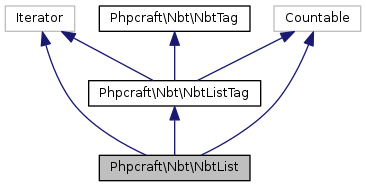
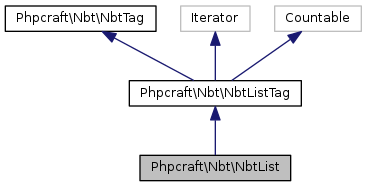
Update docs

diff --git a/docs/hierarchy.html b/docs/hierarchy.html
@@ -147,19 +147,17 @@ This inheritance list is sorted roughly, but not completely, alphabetically:</di
 <tr id="row_17_0_" class="even"><td class="entry"><span style="width:32px;display:inline-block;">&#160;</span><span class="icona"><span class="icon">C</span></span><a class="el" href="classPhpcraft_1_1UUID.html" target="_self">Phpcraft\UUID</a></td><td class="desc"></td></tr>
 <tr id="row_18_"><td class="entry"><span style="width:16px;display:inline-block;">&#160;</span><span class="icona"><span class="icon">C</span></span><a class="el" href="classPhpcraft_1_1Versions.html" target="_self">Phpcraft\Versions</a></td><td class="desc"></td></tr>
 <tr id="row_19_" class="even"><td class="entry"><span style="width:0px;display:inline-block;">&#160;</span><span id="arr_19_" class="arrow" onclick="toggleFolder('19_')">&#9660;</span><span class="icona"><span class="icon">C</span></span><b>Countable</b></td><td class="desc"></td></tr>
-<tr id="row_19_0_"><td class="entry"><span style="width:32px;display:inline-block;">&#160;</span><span class="icona"><span class="icon">C</span></span><a class="el" href="classPhpcraft_1_1Nbt_1_1NbtList.html" target="_self">Phpcraft\Nbt\NbtList</a></td><td class="desc"></td></tr>
-<tr id="row_19_1_" class="even"><td class="entry"><span style="width:32px;display:inline-block;">&#160;</span><span class="icona"><span class="icon">C</span></span><a class="el" href="classPhpcraft_1_1Nbt_1_1NbtListTag.html" target="_self">Phpcraft\Nbt\NbtListTag</a></td><td class="desc"></td></tr>
-<tr id="row_20_"><td class="entry"><span style="width:0px;display:inline-block;">&#160;</span><span id="arr_20_" class="arrow" onclick="toggleFolder('20_')">&#9660;</span><span class="icona"><span class="icon">C</span></span><b>Enum</b></td><td class="desc"></td></tr>
-<tr id="row_20_0_" class="even"><td class="entry"><span style="width:32px;display:inline-block;">&#160;</span><span class="icona"><span class="icon">C</span></span><a class="el" href="classPhpcraft_1_1Enum_1_1ChatPosition.html" target="_self">Phpcraft\Enum\ChatPosition</a></td><td class="desc"></td></tr>
-<tr id="row_20_1_"><td class="entry"><span style="width:32px;display:inline-block;">&#160;</span><span class="icona"><span class="icon">C</span></span><a class="el" href="classPhpcraft_1_1Enum_1_1Difficulty.html" target="_self">Phpcraft\Enum\Difficulty</a></td><td class="desc"></td></tr>
-<tr id="row_20_2_" class="even"><td class="entry"><span style="width:32px;display:inline-block;">&#160;</span><span class="icona"><span class="icon">C</span></span><a class="el" href="classPhpcraft_1_1Enum_1_1Dimension.html" target="_self">Phpcraft\Enum\Dimension</a></td><td class="desc"></td></tr>
-<tr id="row_20_3_"><td class="entry"><span style="width:32px;display:inline-block;">&#160;</span><span class="icona"><span class="icon">C</span></span><a class="el" href="classPhpcraft_1_1Enum_1_1Gamemode.html" target="_self">Phpcraft\Enum\Gamemode</a></td><td class="desc"></td></tr>
-<tr id="row_21_" class="even"><td class="entry"><span style="width:0px;display:inline-block;">&#160;</span><span id="arr_21_" class="arrow" onclick="toggleFolder('21_')">&#9660;</span><span class="icona"><span class="icon">C</span></span><b>Exception</b></td><td class="desc"></td></tr>
-<tr id="row_21_0_"><td class="entry"><span style="width:32px;display:inline-block;">&#160;</span><span class="icona"><span class="icon">C</span></span><a class="el" href="classPhpcraft_1_1Exception_1_1IOException.html" target="_self">Phpcraft\Exception\IOException</a></td><td class="desc"></td></tr>
-<tr id="row_21_1_" class="even"><td class="entry"><span style="width:32px;display:inline-block;">&#160;</span><span class="icona"><span class="icon">C</span></span><a class="el" href="classPhpcraft_1_1Exception_1_1MissingMetadataException.html" target="_self">Phpcraft\Exception\MissingMetadataException</a></td><td class="desc"></td></tr>
-<tr id="row_22_"><td class="entry"><span style="width:0px;display:inline-block;">&#160;</span><span id="arr_22_" class="arrow" onclick="toggleFolder('22_')">&#9660;</span><span class="icona"><span class="icon">C</span></span><b>Iterator</b></td><td class="desc"></td></tr>
-<tr id="row_22_0_" class="even"><td class="entry"><span style="width:32px;display:inline-block;">&#160;</span><span class="icona"><span class="icon">C</span></span><a class="el" href="classPhpcraft_1_1Nbt_1_1NbtList.html" target="_self">Phpcraft\Nbt\NbtList</a></td><td class="desc"></td></tr>
-<tr id="row_22_1_"><td class="entry"><span style="width:32px;display:inline-block;">&#160;</span><span class="icona"><span class="icon">C</span></span><a class="el" href="classPhpcraft_1_1Nbt_1_1NbtListTag.html" target="_self">Phpcraft\Nbt\NbtListTag</a></td><td class="desc"></td></tr>
+<tr id="row_19_0_"><td class="entry"><span style="width:32px;display:inline-block;">&#160;</span><span class="icona"><span class="icon">C</span></span><a class="el" href="classPhpcraft_1_1Nbt_1_1NbtListTag.html" target="_self">Phpcraft\Nbt\NbtListTag</a></td><td class="desc"></td></tr>
+<tr id="row_20_" class="even"><td class="entry"><span style="width:0px;display:inline-block;">&#160;</span><span id="arr_20_" class="arrow" onclick="toggleFolder('20_')">&#9660;</span><span class="icona"><span class="icon">C</span></span><b>Enum</b></td><td class="desc"></td></tr>
+<tr id="row_20_0_"><td class="entry"><span style="width:32px;display:inline-block;">&#160;</span><span class="icona"><span class="icon">C</span></span><a class="el" href="classPhpcraft_1_1Enum_1_1ChatPosition.html" target="_self">Phpcraft\Enum\ChatPosition</a></td><td class="desc"></td></tr>
+<tr id="row_20_1_" class="even"><td class="entry"><span style="width:32px;display:inline-block;">&#160;</span><span class="icona"><span class="icon">C</span></span><a class="el" href="classPhpcraft_1_1Enum_1_1Difficulty.html" target="_self">Phpcraft\Enum\Difficulty</a></td><td class="desc"></td></tr>
+<tr id="row_20_2_"><td class="entry"><span style="width:32px;display:inline-block;">&#160;</span><span class="icona"><span class="icon">C</span></span><a class="el" href="classPhpcraft_1_1Enum_1_1Dimension.html" target="_self">Phpcraft\Enum\Dimension</a></td><td class="desc"></td></tr>
+<tr id="row_20_3_" class="even"><td class="entry"><span style="width:32px;display:inline-block;">&#160;</span><span class="icona"><span class="icon">C</span></span><a class="el" href="classPhpcraft_1_1Enum_1_1Gamemode.html" target="_self">Phpcraft\Enum\Gamemode</a></td><td class="desc"></td></tr>
+<tr id="row_21_"><td class="entry"><span style="width:0px;display:inline-block;">&#160;</span><span id="arr_21_" class="arrow" onclick="toggleFolder('21_')">&#9660;</span><span class="icona"><span class="icon">C</span></span><b>Exception</b></td><td class="desc"></td></tr>
+<tr id="row_21_0_" class="even"><td class="entry"><span style="width:32px;display:inline-block;">&#160;</span><span class="icona"><span class="icon">C</span></span><a class="el" href="classPhpcraft_1_1Exception_1_1IOException.html" target="_self">Phpcraft\Exception\IOException</a></td><td class="desc"></td></tr>
+<tr id="row_21_1_"><td class="entry"><span style="width:32px;display:inline-block;">&#160;</span><span class="icona"><span class="icon">C</span></span><a class="el" href="classPhpcraft_1_1Exception_1_1MissingMetadataException.html" target="_self">Phpcraft\Exception\MissingMetadataException</a></td><td class="desc"></td></tr>
+<tr id="row_22_" class="even"><td class="entry"><span style="width:0px;display:inline-block;">&#160;</span><span id="arr_22_" class="arrow" onclick="toggleFolder('22_')">&#9660;</span><span class="icona"><span class="icon">C</span></span><b>Iterator</b></td><td class="desc"></td></tr>
+<tr id="row_22_0_"><td class="entry"><span style="width:32px;display:inline-block;">&#160;</span><span class="icona"><span class="icon">C</span></span><a class="el" href="classPhpcraft_1_1Nbt_1_1NbtListTag.html" target="_self">Phpcraft\Nbt\NbtListTag</a></td><td class="desc"></td></tr>
 </table>
 </div><!-- directory -->
 </div><!-- contents -->

diff --git a/docs/inherits.html b/docs/inherits.html
@@ -140,21 +140,21 @@ $(function() {
 </td></tr>
 <tr><td><img src="inherit_graph_9.png" border="0" alt="" usemap="#Phpcraft_0CNbt_0CNbtTag"/>
 <map name="Phpcraft_0CNbt_0CNbtTag" id="Phpcraft_0CNbt_0CNbtTag">
-<area shape="rect" id="node2" href="classPhpcraft_1_1Nbt_1_1NbtList.html" title="Phpcraft\\Nbt\\NbtList" alt="" coords="473,17,623,44"/>
-<area shape="rect" id="node3" href="classPhpcraft_1_1Nbt_1_1NbtListTag.html" title="Phpcraft\\Nbt\\NbtListTag" alt="" coords="217,93,389,120"/>
-<area shape="rect" id="node4" href="classPhpcraft_1_1Nbt_1_1NbtByteArray.html" title="Phpcraft\\Nbt\\NbtByteArray" alt="" coords="452,68,644,95"/>
-<area shape="rect" id="node5" href="classPhpcraft_1_1Nbt_1_1NbtIntArray.html" title="Phpcraft\\Nbt\\NbtIntArray" alt="" coords="459,119,637,145"/>
-<area shape="rect" id="node6" href="classPhpcraft_1_1Nbt_1_1NbtLongArray.html" title="Phpcraft\\Nbt\\NbtLongArray" alt="" coords="451,169,645,196"/>
-<area shape="rect" id="node8" href="classPhpcraft_1_1Nbt_1_1NbtTag.html" title="Phpcraft\\Nbt\\NbtTag" alt="" coords="5,321,156,348"/>
-<area shape="rect" id="node9" href="classPhpcraft_1_1Nbt_1_1NbtByte.html" title="Phpcraft\\Nbt\\NbtByte" alt="" coords="224,144,383,171"/>
-<area shape="rect" id="node10" href="classPhpcraft_1_1Nbt_1_1NbtCompound.html" title="Phpcraft\\Nbt\\NbtCompound" alt="" coords="204,195,403,221"/>
-<area shape="rect" id="node11" href="classPhpcraft_1_1Nbt_1_1NbtDouble.html" title="Phpcraft\\Nbt\\NbtDouble" alt="" coords="216,245,391,272"/>
-<area shape="rect" id="node12" href="classPhpcraft_1_1Nbt_1_1NbtEnd.html" title="Phpcraft\\Nbt\\NbtEnd" alt="" coords="227,296,380,323"/>
-<area shape="rect" id="node13" href="classPhpcraft_1_1Nbt_1_1NbtFloat.html" title="Phpcraft\\Nbt\\NbtFloat" alt="" coords="223,347,383,373"/>
-<area shape="rect" id="node14" href="classPhpcraft_1_1Nbt_1_1NbtInt.html" title="Phpcraft\\Nbt\\NbtInt" alt="" coords="231,397,376,424"/>
-<area shape="rect" id="node15" href="classPhpcraft_1_1Nbt_1_1NbtLong.html" title="Phpcraft\\Nbt\\NbtLong" alt="" coords="223,448,383,475"/>
-<area shape="rect" id="node16" href="classPhpcraft_1_1Nbt_1_1NbtShort.html" title="Phpcraft\\Nbt\\NbtShort" alt="" coords="221,499,385,525"/>
-<area shape="rect" id="node17" href="classPhpcraft_1_1Nbt_1_1NbtString.html" title="Phpcraft\\Nbt\\NbtString" alt="" coords="220,549,387,576"/>
+<area shape="rect" id="node2" href="classPhpcraft_1_1Nbt_1_1NbtListTag.html" title="Phpcraft\\Nbt\\NbtListTag" alt="" coords="217,81,389,108"/>
+<area shape="rect" id="node3" href="classPhpcraft_1_1Nbt_1_1NbtByteArray.html" title="Phpcraft\\Nbt\\NbtByteArray" alt="" coords="452,5,644,32"/>
+<area shape="rect" id="node4" href="classPhpcraft_1_1Nbt_1_1NbtIntArray.html" title="Phpcraft\\Nbt\\NbtIntArray" alt="" coords="459,56,637,83"/>
+<area shape="rect" id="node5" href="classPhpcraft_1_1Nbt_1_1NbtList.html" title="Phpcraft\\Nbt\\NbtList" alt="" coords="473,107,623,133"/>
+<area shape="rect" id="node6" href="classPhpcraft_1_1Nbt_1_1NbtLongArray.html" title="Phpcraft\\Nbt\\NbtLongArray" alt="" coords="451,157,645,184"/>
+<area shape="rect" id="node8" href="classPhpcraft_1_1Nbt_1_1NbtTag.html" title="Phpcraft\\Nbt\\NbtTag" alt="" coords="5,309,156,336"/>
+<area shape="rect" id="node9" href="classPhpcraft_1_1Nbt_1_1NbtByte.html" title="Phpcraft\\Nbt\\NbtByte" alt="" coords="224,132,383,159"/>
+<area shape="rect" id="node10" href="classPhpcraft_1_1Nbt_1_1NbtCompound.html" title="Phpcraft\\Nbt\\NbtCompound" alt="" coords="204,183,403,209"/>
+<area shape="rect" id="node11" href="classPhpcraft_1_1Nbt_1_1NbtDouble.html" title="Phpcraft\\Nbt\\NbtDouble" alt="" coords="216,233,391,260"/>
+<area shape="rect" id="node12" href="classPhpcraft_1_1Nbt_1_1NbtEnd.html" title="Phpcraft\\Nbt\\NbtEnd" alt="" coords="227,284,380,311"/>
+<area shape="rect" id="node13" href="classPhpcraft_1_1Nbt_1_1NbtFloat.html" title="Phpcraft\\Nbt\\NbtFloat" alt="" coords="223,335,383,361"/>
+<area shape="rect" id="node14" href="classPhpcraft_1_1Nbt_1_1NbtInt.html" title="Phpcraft\\Nbt\\NbtInt" alt="" coords="231,385,376,412"/>
+<area shape="rect" id="node15" href="classPhpcraft_1_1Nbt_1_1NbtLong.html" title="Phpcraft\\Nbt\\NbtLong" alt="" coords="223,436,383,463"/>
+<area shape="rect" id="node16" href="classPhpcraft_1_1Nbt_1_1NbtShort.html" title="Phpcraft\\Nbt\\NbtShort" alt="" coords="221,487,385,513"/>
+<area shape="rect" id="node17" href="classPhpcraft_1_1Nbt_1_1NbtString.html" title="Phpcraft\\Nbt\\NbtString" alt="" coords="220,537,387,564"/>
 </map>
 </td></tr>
 <tr><td><img src="inherit_graph_10.png" border="0" alt="" usemap="#Phpcraft_0CPacket_0CMapMarker"/>

diff --git a/docs/classPhpcraft_1_1Nbt_1_1NbtList.html b/docs/classPhpcraft_1_1Nbt_1_1NbtList.html
@@ -75,8 +75,8 @@ Inheritance diagram for Phpcraft\Nbt\NbtList:</div>
 <div class="dyncontent">
 <div class="center"><img src="classPhpcraft_1_1Nbt_1_1NbtList__inherit__graph.png" border="0" usemap="#Phpcraft_0CNbt_0CNbtList_inherit__map" alt="Inheritance graph"/></div>
 <map name="Phpcraft_0CNbt_0CNbtList_inherit__map" id="Phpcraft_0CNbt_0CNbtList_inherit__map">
-<area shape="rect" id="node2" href="classPhpcraft_1_1Nbt_1_1NbtListTag.html" title="Phpcraft\\Nbt\\NbtListTag" alt="" coords="89,80,261,107"/>
-<area shape="rect" id="node3" href="classPhpcraft_1_1Nbt_1_1NbtTag.html" title="Phpcraft\\Nbt\\NbtTag" alt="" coords="99,5,250,32"/>
+<area shape="rect" id="node2" href="classPhpcraft_1_1Nbt_1_1NbtListTag.html" title="Phpcraft\\Nbt\\NbtListTag" alt="" coords="129,80,301,107"/>
+<area shape="rect" id="node3" href="classPhpcraft_1_1Nbt_1_1NbtTag.html" title="Phpcraft\\Nbt\\NbtTag" alt="" coords="5,5,156,32"/>
 </map>
 <center><span class="legend">[<a href="graph_legend.html">legend</a>]</span></center></div>
 <div class="dynheader">
@@ -84,8 +84,8 @@ Collaboration diagram for Phpcraft\Nbt\NbtList:</div>
 <div class="dyncontent">
 <div class="center"><img src="classPhpcraft_1_1Nbt_1_1NbtList__coll__graph.png" border="0" usemap="#Phpcraft_0CNbt_0CNbtList_coll__map" alt="Collaboration graph"/></div>
 <map name="Phpcraft_0CNbt_0CNbtList_coll__map" id="Phpcraft_0CNbt_0CNbtList_coll__map">
-<area shape="rect" id="node2" href="classPhpcraft_1_1Nbt_1_1NbtListTag.html" title="Phpcraft\\Nbt\\NbtListTag" alt="" coords="89,80,261,107"/>
-<area shape="rect" id="node3" href="classPhpcraft_1_1Nbt_1_1NbtTag.html" title="Phpcraft\\Nbt\\NbtTag" alt="" coords="99,5,250,32"/>
+<area shape="rect" id="node2" href="classPhpcraft_1_1Nbt_1_1NbtListTag.html" title="Phpcraft\\Nbt\\NbtListTag" alt="" coords="129,80,301,107"/>
+<area shape="rect" id="node3" href="classPhpcraft_1_1Nbt_1_1NbtTag.html" title="Phpcraft\\Nbt\\NbtTag" alt="" coords="5,5,156,32"/>
 </map>
 <center><span class="legend">[<a href="graph_legend.html">legend</a>]</span></center></div>
 <table class="memberdecls">
